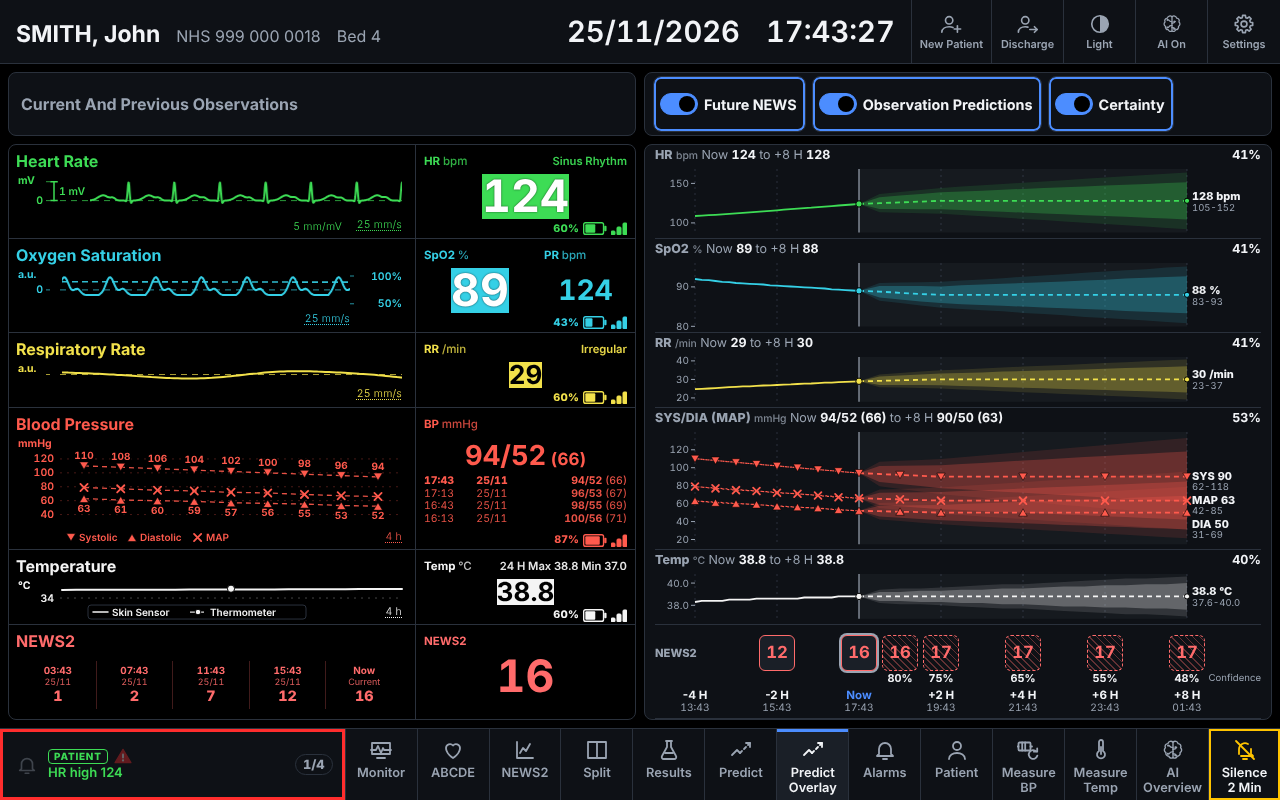
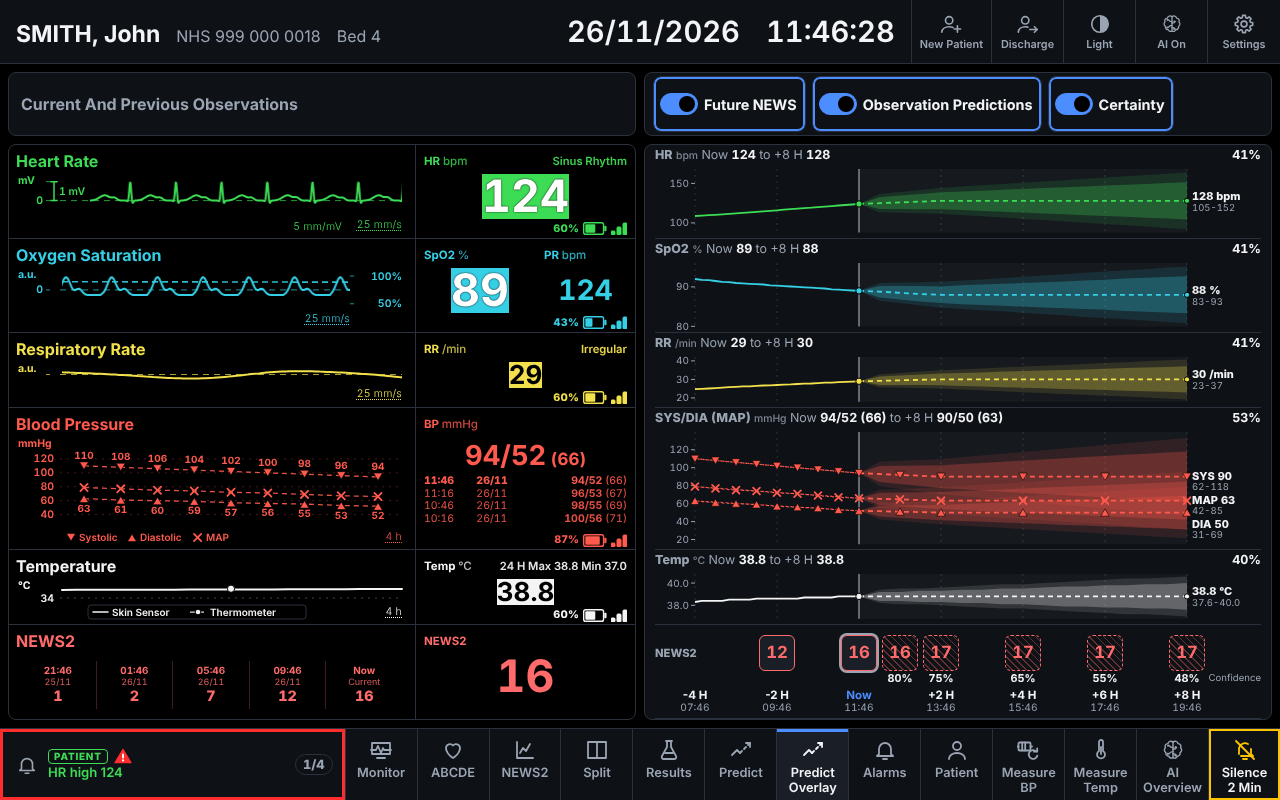
NEWS2 chart: lighter hatching behind the score colours, forecast ranges as bars
- predicted region background and thin hatch drawn first; score colours see-through there
- 80 % and 95 % forecast ranges as bars behind each predicted marker (incl. diastolic)
- fainter veil and hatch in both themes; banner key
- smoke checks, regenerated screenshots

Claude-Session: https://claude.ai/code/session_01D3FjnZYTiQZK2dzcY8Lj43

diff --git a/frontend/src/widgets/News2Chart.tsx b/frontend/src/widgets/News2Chart.tsx
@@ -168,6 +168,12 @@ export function News2Chart({ widget }: { widget: WidgetOf<"news2-chart"> }) {
     const c = pickCertainty(news?.points.find((p) => p.horizon_min === minutesOf(s))?.certainty ?? [], design?.forecast.certainty.metric ?? "prediction_interval");
     return c ? `${Math.round(Math.min(1, Math.max(0, c.score)) * 100)}%` : null;
   };
+  // the forecast's own interval for a parameter at a horizon: the bars behind each predicted marker
+  const rangeAt = (pid: string, minutes: number, level: "80" | "95"): [number, number] | null => {
+    const f = snapshot.forecast.forecasts.find((x) => x.parameter === pid && x.scenario === "baseline");
+    const iv = f?.points.find((p) => p.horizon_min === minutes)?.intervals[level] as unknown as [number, number] | undefined;
+    return iv ?? null;
+  };
   const cols = sets.length;
   const band = theme.news_bands as unknown as Record<string, string>;
   const fill = (score: number) => band[`score_${Math.min(3, score)}`] ?? "transparent";
@@ -214,10 +220,10 @@ export function News2Chart({ widget }: { widget: WidgetOf<"news2-chart"> }) {
         {hasPred && (
           <g data-testid="news-predicted-banner">
             <defs>
-              <pattern id={hatchId} patternUnits="userSpaceOnUse" width="5" height="5" patternTransform="rotate(45)"><line x1="0" y1="0" x2="0" y2="5" className="n2-hatchline" /></pattern>
+              <pattern id={hatchId} patternUnits="userSpaceOnUse" width="6" height="6" patternTransform="rotate(45)"><line x1="0" y1="0" x2="0" y2="6" className="n2-hatchline" /></pattern>
             </defs>
             <rect x={colX(obsCount)} y={0} width={(cols - obsCount) * colW} height={13} className="n2-predbanner" />
-            <text x={colX(obsCount) + (cols - obsCount) * colW / 2} y={10} textAnchor="middle" className="n2-predtext">Predicted From Example Data</text>
+            <text x={colX(obsCount) + (cols - obsCount) * colW / 2} y={10} textAnchor="middle" className="n2-predtext">{(cols - obsCount) * colW >= 330 ? "Predicted From Example Data · Bars Show 80 % And 95 % Ranges" : "Predicted From Example Data"}</text>
           </g>
         )}
 
@@ -256,6 +262,7 @@ export function News2Chart({ widget }: { widget: WidgetOf<"news2-chart"> }) {
           if (need(lines) > room) noteLines.forEach((l) => lines.splice(lines.indexOf(l), 1));
           return (
             <g key={g.key} data-testid={`news-group-${g.key}`} data-letter={g.letter}>
+              {hasPred && <PredictedRegion x={colX(obsCount)} y={top} w={(cols - obsCount) * colW} h={bh} hatchId={hatchId} />}
               <rect x={0} y={top} width={NAME_W} height={bh} className="n2-name" style={{ fill: band.header }} />
               {wide ? (
                 <>
@@ -289,10 +296,13 @@ export function News2Chart({ widget }: { widget: WidgetOf<"news2-chart"> }) {
                       <g key={b.label} data-testid={`news-band-${g.key}-${r}`} data-score={b.score} data-from={y0.toFixed(1)} data-to={y1.toFixed(1)}>
                         {g.bandKey === "spo2_2" ? (
                           <>
-                            {sets.map((s, i) => applies(onO2(s)) && <rect key={s.at} x={colX(i)} y={y0} width={colW} height={y1 - y0} style={{ fill: fill(b.score) }} className="n2-bandcont" />)}
+                            {sets.map((s, i) => applies(onO2(s)) && <rect key={s.at} x={colX(i)} y={y0} width={colW} height={y1 - y0} style={{ fill: fill(b.score) }} className={`n2-bandcont${isPred(s) ? " n2-predband" : ""}`} />)}
                           </>
                         ) : (
-                          <rect x={left} y={y0} width={cols * colW} height={y1 - y0} style={{ fill: fill(b.score) }} className="n2-bandcont" />
+                          <>
+                            <rect x={left} y={y0} width={obsCount * colW} height={y1 - y0} style={{ fill: fill(b.score) }} className="n2-bandcont" />
+                            {cols > obsCount && <rect x={colX(obsCount)} y={y0} width={(cols - obsCount) * colW} height={y1 - y0} style={{ fill: fill(b.score) }} className="n2-bandcont n2-predband" />}
+                          </>
                         )}
                       </g>
                     );
@@ -304,11 +314,11 @@ export function News2Chart({ widget }: { widget: WidgetOf<"news2-chart"> }) {
                   <g key={b.label} data-testid={`news-band-${g.key}-${r}`} data-score={b.score}>
                     <rect x={NAME_W} y={top + r * rh} width={LABEL_W} height={rh} className="n2-bandlabel" />
                     <text x={NAME_W + LABEL_W - 4} y={top + r * rh + rh / 2 + 3.2} textAnchor="end" className="n2-label">{b.label}</text>
-                    <rect x={left} y={top + r * rh} width={cols * colW} height={rh} style={{ fill: fill(b.score) }} className="n2-bandrow" />
+                    <rect x={left} y={top + r * rh} width={obsCount * colW} height={rh} style={{ fill: fill(b.score) }} className="n2-bandrow" />
+                    {cols > obsCount && <rect x={colX(obsCount)} y={top + r * rh} width={(cols - obsCount) * colW} height={rh} style={{ fill: fill(b.score) }} className="n2-bandrow n2-predband" />}
                   </g>
                 ))
               )}
-              {hasPred && <PredictedRegion x={colX(obsCount)} y={top} w={(cols - obsCount) * colW} h={bh} hatchId={hatchId} />}
               <rect x={NAME_W} y={top} width={LABEL_W + cols * colW} height={bh} className="n2-block" />
 
               {/* blood pressure: a dotted tail from the systolic dot to the diastolic number, and an X at the MAP */}
@@ -369,6 +379,17 @@ export function News2Chart({ widget }: { widget: WidgetOf<"news2-chart"> }) {
                   </g>
                 );
               })}
+              {axis && hasPred && sets.map((s, i) => {
+                if (!isPred(s)) return null;
+                const bars = (pid: string, key: string) => {
+                  const lo95 = rangeAt(pid, minutesOf(s), "95"), lo80 = rangeAt(pid, minutesOf(s), "80");
+                  if (!lo80 || !lo95) return null;
+                  const clamp = (v: number) => Math.min(top + bh, Math.max(top, yOf(v)));
+                  const bar = (r: [number, number], cls: string) => <rect x={cx(i) - 5} width={10} y={clamp(r[1])} height={Math.max(1, clamp(r[0]) - clamp(r[1]))} className={cls} style={{ fill: colour }} />;
+                  return <g key={key} data-testid={`news-range-${key}-${i}`} data-lo={lo80[0]} data-hi={lo80[1]}>{colW >= 40 && bar(lo95, "n2-range95")}{bar(lo80, "n2-range80")}</g>;
+                };
+                return <g key={s.at}>{bars(g.key, g.key)}{g.key === "bp_sys" && bars("bp_dia", "bp_dia")}</g>;
+              })}
               {g.key !== "o2_flow" && dots.map(({ s, i, r, y }) => {
                 const score = g.bands[r]!.score;
                 const above = y - top > 11;
@@ -397,9 +418,10 @@ export function News2Chart({ widget }: { widget: WidgetOf<"news2-chart"> }) {
           <g data-testid="news-totals">
             <rect x={0} y={totalTop} width={left} height={totalH} style={{ fill: band.header }} />
             <text x={6} y={totalTop + totalH / 2 + 4} className="n2-label" style={{ fill: band.header_text }}>NEWS Total</text>
+            {hasPred && <rect x={colX(obsCount)} y={totalTop} width={(cols - obsCount) * colW} height={totalH} fill={`url(#${hatchId})`} className="n2-totalhatch" pointerEvents="none" />}
             {sets.map((s, i) => (
               <g key={s.at} data-testid={`news-total-${i}`} data-total={s.news2_total ?? ""} data-risk={s.news2_risk ?? ""} data-confidence={isPred(s) ? confidenceOf(s) ?? "" : undefined} data-predicted={isPred(s) || undefined}>
-                <rect x={colX(i)} y={totalTop} width={colW} height={totalH} style={{ fill: fill(totalRisk(s)) }} className="n2-totalcell" />
+                <rect x={colX(i)} y={totalTop} width={colW} height={totalH} style={{ fill: fill(totalRisk(s)) }} className={`n2-totalcell${isPred(s) ? " n2-predband" : ""}`} />
                 {isPred(s) ? (
                   <>
                     <text x={cx(i)} y={totalTop + 12} textAnchor="middle" className="n2-totaltext n2-small" style={{ fill: readableOn(fill(totalRisk(s))) }}>{s.news2_total}</text>
@@ -410,7 +432,6 @@ export function News2Chart({ widget }: { widget: WidgetOf<"news2-chart"> }) {
                 )}
               </g>
             ))}
-            {hasPred && <rect x={colX(obsCount)} y={totalTop} width={(cols - obsCount) * colW} height={totalH} fill={`url(#${hatchId})`} className="n2-totalhatch" pointerEvents="none" />}
           </g>
         )}
         {widget.show_escalation_rows && [[wide ? "Monitoring Frequency" : "Monitoring", (s: ObsSet) => frequencyText(s.monitoring_hours)], [wide ? "Clinical Risk" : "Risk", (s: ObsSet) => (s.news2_risk ? RISK_SHORT[s.news2_risk] ?? "" : "")]].map(([label, text], r) => {

diff --git a/frontend/src/styles.css b/frontend/src/styles.css
@@ -1092,10 +1092,10 @@ button:disabled { opacity: 0.45; }
 .tf-bpx line { stroke: currentColor; stroke-width: 1.8; stroke-linecap: round; }
 
 /* ---- the predicted part of a NEWS2 chart: darker, thinly hatched over the score colours, dashed trends, hollow markers ---- */
-.news2-chart { --n2-pred-veil: rgba(0, 0, 0, 0.36); --n2-hatch: rgba(255, 255, 255, 0.55); }
-.news2-chart[data-mode="light"] { --n2-pred-veil: rgba(20, 24, 31, 0.28); --n2-hatch: rgba(0, 0, 0, 0.5); }
+.news2-chart { --n2-pred-veil: rgba(0, 0, 0, 0.14); --n2-hatch: rgba(255, 255, 255, 0.3); }
+.news2-chart[data-mode="light"] { --n2-pred-veil: rgba(20, 24, 31, 0.10); --n2-hatch: rgba(0, 0, 0, 0.2); }
 .news2-svg .n2-predveil { fill: var(--n2-pred-veil); }
-.news2-svg .n2-hatchline { stroke: var(--n2-hatch); stroke-width: 0.9; }
+.news2-svg .n2-hatchline { stroke: var(--n2-hatch); stroke-width: 0.7; }
 .news2-svg .n2-predbanner { fill: var(--c-surface-alt); }
 .news2-svg .n2-predtext { font-size: 9.5px; font-weight: 700; fill: var(--c-text); letter-spacing: 0.02em; }
 .news2-svg .n2-now { stroke: var(--c-text); stroke-width: 2; }
@@ -1104,7 +1104,7 @@ button:disabled { opacity: 0.45; }
 .news2-svg .n2-dot.is-predicted { fill: var(--c-background); stroke-width: 1.6; }
 .news2-svg .n2-arrow.is-predicted { fill: var(--c-background); stroke-width: 1.4; }
 .news2-svg .n2-foot.is-predicted { opacity: 0.8; font-style: italic; }
-.news2-svg .n2-totalhatch { opacity: 0.9; }
+.news2-svg .n2-totalhatch { opacity: 1; }
 .pt-box.is-future { background-image: repeating-linear-gradient(45deg, transparent 0 4px, color-mix(in srgb, currentColor 35%, transparent) 4px 5px); }
 
 /* ---- ABCDE: A, B and C in the left column, D, E and the results in the right, so nothing is off screen ---- */
@@ -1175,3 +1175,7 @@ button:disabled { opacity: 0.45; }
 /* the date and the time are one pair: the same font, size and weight, on one baseline */
 .tb-date, .tb-clock, .tb-clock time { color: var(--c-text); font-family: inherit; font-size: 1.35em; font-weight: 600; font-variant-numeric: tabular-nums; line-height: 1.2; }
 @media (max-width: 1100px) { .tb-date, .tb-clock, .tb-clock time { font-size: 1.1em; } }
+/* the predicted part: hatching sits behind the score colours, which are a little see-through there; the forecast's ranges are bars behind each marker */
+.news2-svg .n2-predband { fill-opacity: 0.62; }
+.news2-svg .n2-range95 { fill-opacity: 0.2; }
+.news2-svg .n2-range80 { fill-opacity: 0.42; }
